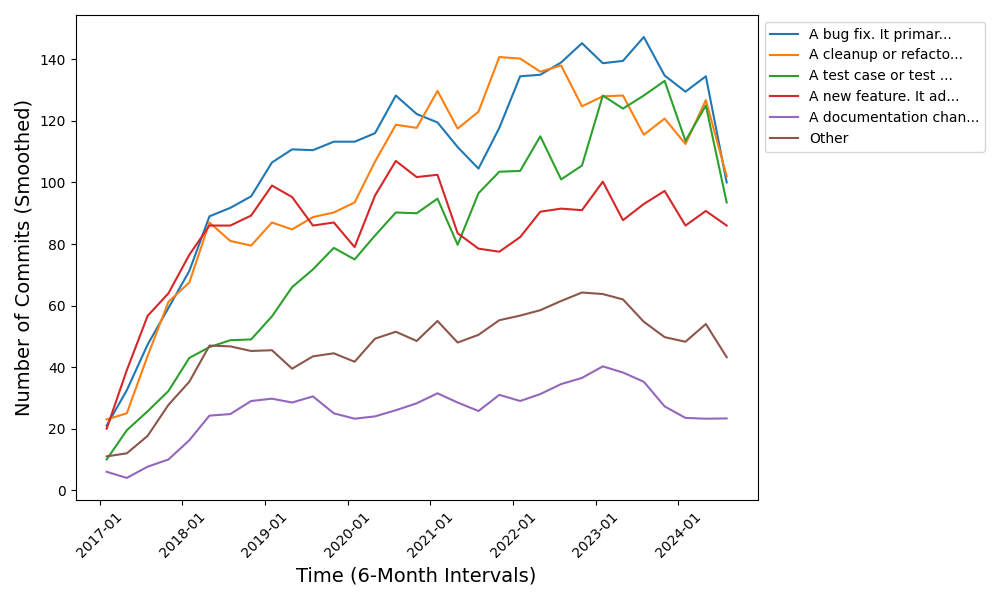
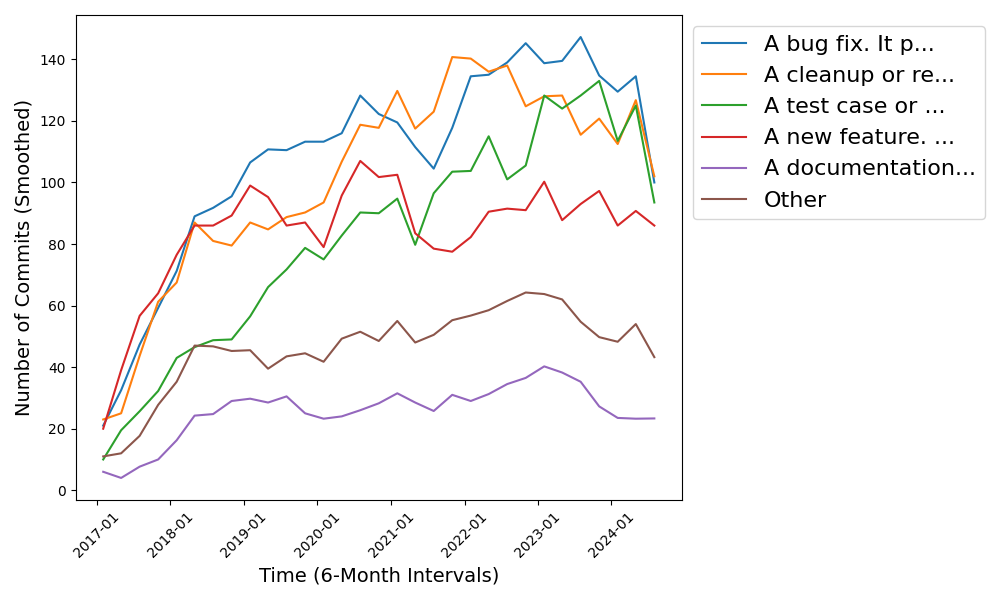
update font

diff --git a/analysis/bpf/timeline_commits_6m.py b/analysis/bpf/timeline_commits_6m.py
@@ -167,9 +167,10 @@ def plot_frequency_timeline(field_name, title, max_labels, threshold, save_path,
     ax.set_xlabel('Time (6-Month Intervals)', fontsize=14)
     ax.set_ylabel('Number of Commits (Smoothed)', fontsize=14)
 
-    truncated_labels = [label[:20] + '...' if len(label) > 20 else label for label in smoothed_counts.columns]
+    truncated_labels = [label[:15] + '...' if len(label) > 20 else label for label in smoothed_counts.columns]
 
-    ax.legend(truncated_labels, loc='upper left', bbox_to_anchor=(1,1))  # Place legend outside the plot
+    ax.legend(truncated_labels, loc='upper left', bbox_to_anchor=(1,1), fontsize=16)  # Increase fontsize to 12
+    # Place legend outside the plot
 
     plt.tight_layout()
     plt.savefig(save_path)
@@ -256,10 +257,10 @@ def plot_usecases_timeline(title, save_path, max_labels=8, threshold=0.005, smoo
         ax.set_ylabel('Number of Commits (Smoothed)', fontsize=14)
 
         # Truncate long labels for the legend
-        truncated_labels = [label[:20] + '...' if len(label) > 20 else label for label in categories_subset]
+        truncated_labels = [label[:15] + '...' if len(label) > 20 else label for label in categories_subset]
 
         # Add the legend with truncated labels
-        ax.legend(truncated_labels, loc='upper left', bbox_to_anchor=(1, 1))  # Place legend outside the plot
+        ax.legend(truncated_labels, loc='upper left', bbox_to_anchor=(1, 1), fontsize=16)  # Place legend outside the plot
 
         plt.tight_layout()
 
